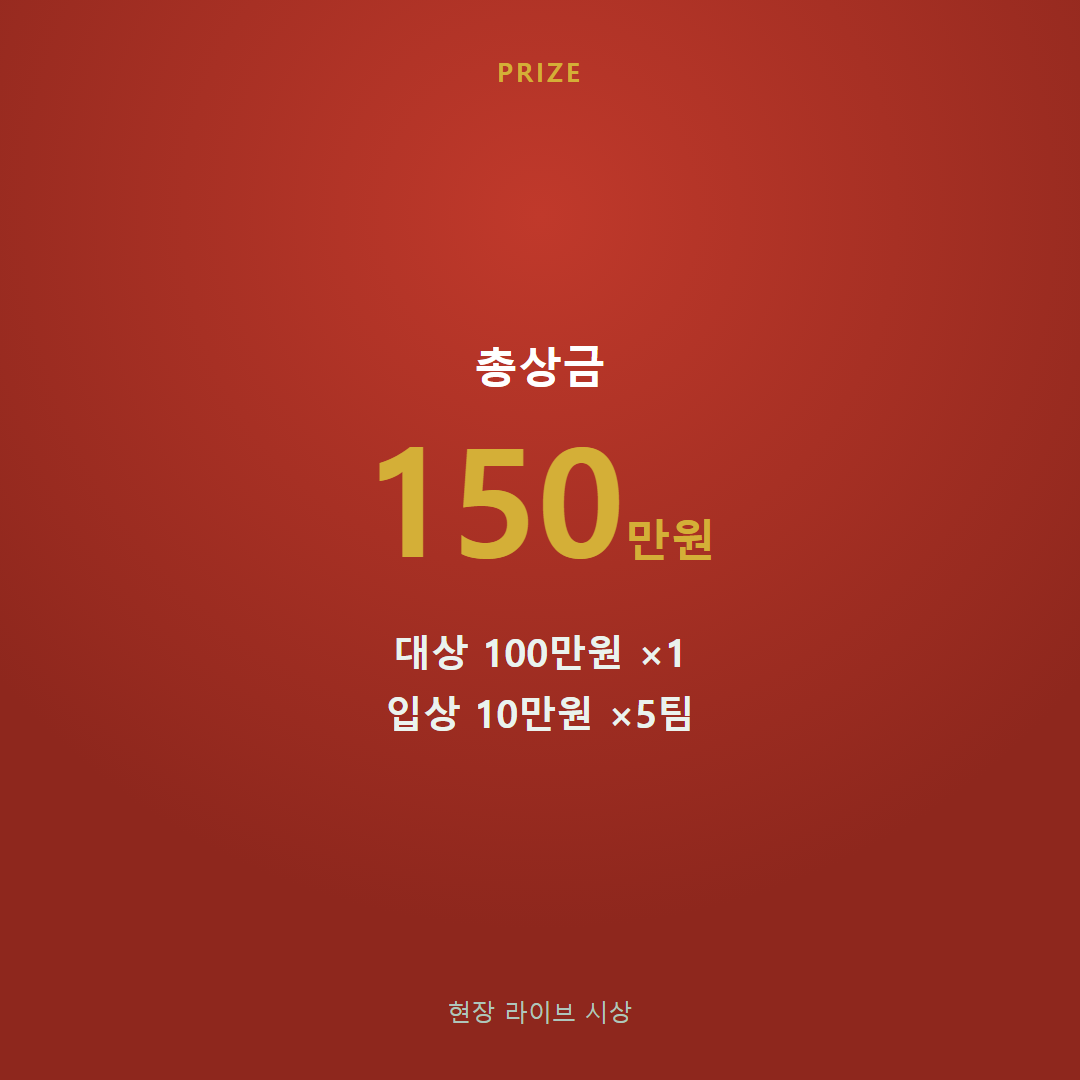
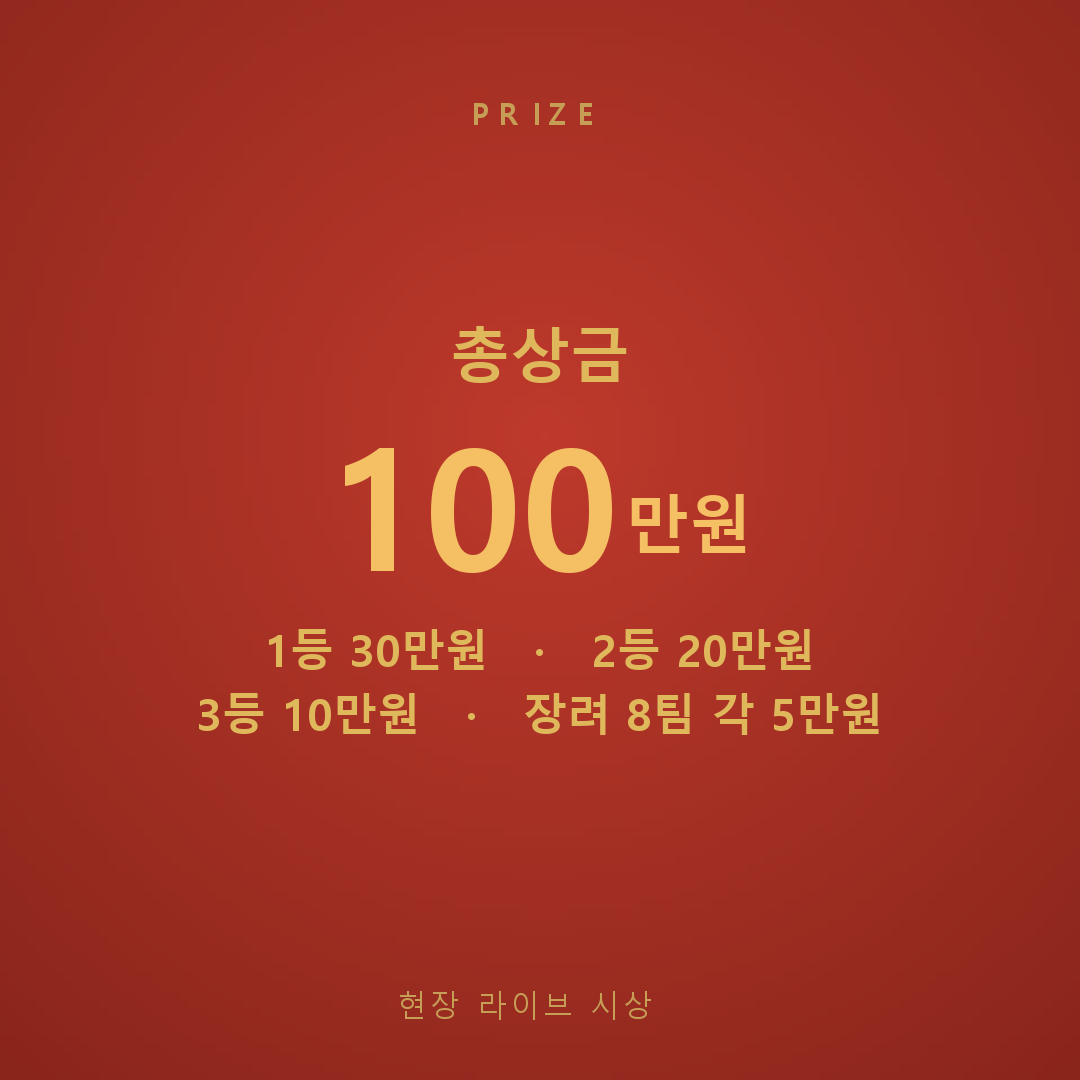
안내 페이지 편집모드 추가 + 상금·일정 갱신
- guide/, photo-guide/ 에 암호 보호 문구 편집모드(✏) 이식 (메인과 동일 UX)
- 캐롤 상금 총 100만원(1/2/3등·장려 8팀), 일정(신청 11.28~12.8·투표~12.25·시상 12.27) 갱신
- 사진 시상(1·2·3등 + 장려 치킨·피자 상품권), 일정(신청~12.25·시상 12.27) 갱신
- 저작물 활용 동의 주의문구 삽입 (양 페이지)
- 상금 카드(card_3.png) 새 금액으로 재생성

diff --git a/guide/index.html b/guide/index.html
@@ -74,12 +74,14 @@
   <a class="back" href="../#contest">← 대회 홈</a>
 </div></div>
 
+<div id="editable-root">
+
 <header class="ghero">
   <div class="tree">🎄</div>
   <h1>용인 캐롤 페스티벌</h1>
   <div class="dash">크리스마스 캐롤 · 성탄 CCM 창작대회 참가 안내서</div>
   <div class="slogan">“올해의 성탄, 당신의 노래로 물들이다”</div>
-  <div class="prize"><b>총상금 150만원</b><small>대상 100만원 · 입상 10만원 (5팀)</small></div>
+  <div class="prize"><b>총상금 100만원</b><small>1등 30 · 2등 20 · 3등 10만원 · 장려 8팀 각 5만원</small></div>
   <div class="host">주최 용인특례시기독교총연합회 · 주관 아가페문화원<br>2026 「이웃과 함께하는 성탄축제」 연계 사업</div>
 </header>
 
@@ -125,9 +127,11 @@
     <h2><span class="no">5</span>상금 및 시상</h2>
     <table>
       <tr><th>상</th><th>인원</th><th>상금</th></tr>
-      <tr><td style="text-align:center">대상</td><td style="text-align:center">1팀</td><td style="text-align:center">100만원</td></tr>
-      <tr><td style="text-align:center">입상</td><td style="text-align:center">5팀</td><td style="text-align:center">각 10만원</td></tr>
-      <tr><td style="text-align:center;font-weight:700">합계</td><td style="text-align:center;font-weight:700">6팀</td><td style="text-align:center;font-weight:700">150만원</td></tr>
+      <tr><td style="text-align:center">1등</td><td style="text-align:center">1팀</td><td style="text-align:center">30만원</td></tr>
+      <tr><td style="text-align:center">2등</td><td style="text-align:center">1팀</td><td style="text-align:center">20만원</td></tr>
+      <tr><td style="text-align:center">3등</td><td style="text-align:center">1팀</td><td style="text-align:center">10만원</td></tr>
+      <tr><td style="text-align:center">장려</td><td style="text-align:center">8팀</td><td style="text-align:center">각 5만원</td></tr>
+      <tr><td style="text-align:center;font-weight:700">합계</td><td style="text-align:center;font-weight:700">11팀</td><td style="text-align:center;font-weight:700">100만원</td></tr>
     </table>
     <p>이 외에도 <b>인기상(시민 투표)</b>, <b>거리송출 선정작</b>, 음원 유통 지원, 공연 무대 기회, 공식 크레딧 표기 등 다양한 혜택이 제공됩니다. 시상은 12월 성탄축제 현장에서 라이브로 진행됩니다.</p>
   </div>
@@ -145,9 +149,9 @@
   <div class="card">
     <h2><span class="no">7</span>일정</h2>
     <table>
-      <tr><td class="lbl">접수</td><td>2026. 11. 8(일) ~ 11. 22(일) · 온라인</td></tr>
-      <tr><td class="lbl">중간 공개·투표</td><td>11월 말 ~ 12월 중 (성탄축제 기간)</td></tr>
-      <tr><td class="lbl">발표·시상</td><td>12월 성탄축제 현장 라이브 시상</td></tr>
+      <tr><td class="lbl">신청 기간</td><td>2026. 11. 28(토) ~ 12. 8(화) 18시까지 · 온라인(네이버 카페)</td></tr>
+      <tr><td class="lbl">투표 기간</td><td>2026. 12. 11(금) ~ 12. 25(금) 21시까지 · 시민 온라인 투표</td></tr>
+      <tr><td class="lbl">시상</td><td>2026. 12. 27(일) 오후 3시 30분 · 용인중앙시장 공연장</td></tr>
     </table>
     <p class="small">※ 일정은 주최 측 사정에 따라 조정될 수 있으며, 변경 시 공지합니다.</p>
   </div>
@@ -156,6 +160,7 @@
     <h2><span class="no">8</span>저작권 안내 <span style="font-size:13px;color:var(--red)">(중요)</span></h2>
     <p>출품곡의 <b>저작권은 창작자 본인에게 그대로 남습니다.</b> 주최 측은 곡을 ‘소유’하지 않으며, 성탄축제 기간 및 관련 행사에서 <b>사용할 수 있는 허락(비독점 사용 라이선스)</b>만 받습니다. 곡이 사용될 때는 <b>창작자의 이름(크레딧)이 반드시 표기</b>됩니다. 참가자는 자신의 곡을 다른 교회·앨범·플랫폼에 자유롭게 사용할 수 있습니다.</p>
     <div class="box">참가 신청 시 ‘저작물 사용허락 동의서’를 함께 제출하게 됩니다. 미성년자는 법정대리인(보호자) 동의가 필요합니다.</div>
+    <div class="warn">📌 출품곡은 용인기독교총연합회가 성탄축제와 시민들을 위해 활용하겠습니다. <b>출품하시는 순간 이에 허락하신 것으로 인정합니다.</b></div>
   </div>
 
   <div class="card faq">
@@ -181,6 +186,140 @@
   주최 용인특례시기독교총연합회 · 주관 아가페문화원 · 용기총 대회 사무국<br>
   문의 — 아가페문화원 / 용기총 대회 사무국
 </footer>
+
+</div><!-- /editable-root -->
+
+<!-- ===================== 문구 편집 모드 (암호 보호) ===================== -->
+<style>
+ #ed-fab{position:fixed;right:18px;bottom:18px;z-index:9000;background:#0b3d2e;color:#fff;border:2px solid #d4af37;
+   border-radius:999px;padding:11px 18px;font:700 14px/1 'Malgun Gothic',sans-serif;cursor:pointer;box-shadow:0 8px 24px rgba(0,0,0,.25)}
+ #ed-fab:hover{background:#145a43}
+ #ed-mask{position:fixed;inset:0;background:rgba(0,0,0,.45);z-index:9100;display:none;align-items:center;justify-content:center}
+ #ed-modal{background:#fff;border-radius:16px;padding:26px 24px;width:320px;text-align:center;font-family:'Malgun Gothic',sans-serif;box-shadow:0 20px 60px rgba(0,0,0,.3)}
+ #ed-modal h4{color:#0b3d2e;font-size:18px;margin:0 0 6px}
+ #ed-modal p{color:#6b7280;font-size:13px;margin:0 0 14px}
+ #ed-pw{width:100%;padding:12px;border:1px solid #ccc;border-radius:10px;font-size:16px;text-align:center;letter-spacing:3px}
+ #ed-modal .row{display:flex;gap:8px;margin-top:14px}
+ #ed-modal button{flex:1;padding:11px;border:0;border-radius:10px;font-weight:700;font-size:14px;cursor:pointer}
+ #ed-ok{background:#0b3d2e;color:#fff}#ed-cancel{background:#eee;color:#333}
+ #ed-err{color:#c0392b;font-size:12.5px;height:16px;margin-top:8px}
+ #ed-bar{position:fixed;left:0;right:0;bottom:0;z-index:9000;background:#0b3d2e;color:#fff;display:none;
+   align-items:center;gap:10px;padding:10px 16px;font-family:'Malgun Gothic',sans-serif;box-shadow:0 -6px 20px rgba(0,0,0,.2);flex-wrap:wrap}
+ #ed-bar .hint{font-size:13px;color:#cfe0d8;flex:1;min-width:180px}
+ #ed-bar button{background:#ffffff1a;color:#fff;border:1px solid #ffffff44;border-radius:9px;padding:9px 14px;font-weight:700;font-size:13.5px;cursor:pointer}
+ #ed-bar button.prim{background:#d4af37;color:#3a2a00;border-color:#d4af37}
+ #ed-bar button:hover{filter:brightness(1.08)}
+ [contenteditable="true"].ed-on{outline:2px dashed #d4af37;outline-offset:3px;background:rgba(212,175,55,.08);border-radius:4px;cursor:text}
+ #ed-toast{position:fixed;left:50%;bottom:70px;transform:translateX(-50%);z-index:9200;background:#222;color:#fff;
+   padding:10px 18px;border-radius:999px;font:600 13.5px 'Malgun Gothic',sans-serif;opacity:0;transition:.25s;pointer-events:none}
+ #ed-toast.show{opacity:1}
+</style>
+
+<button id="ed-fab" title="문구 편집">✏ 편집</button>
+<div id="ed-mask"><div id="ed-modal">
+  <h4>🔒 문구 편집</h4>
+  <p>편집하려면 암호를 입력하세요</p>
+  <input id="ed-pw" type="password" inputmode="numeric" maxlength="16" placeholder="••••••">
+  <div id="ed-err"></div>
+  <div class="row"><button id="ed-cancel">취소</button><button id="ed-ok">확인</button></div>
+</div></div>
+<div id="ed-bar">
+  <span class="hint">✏ 편집 모드 — 글자를 눌러 고치고 <b>💾 저장</b> → <b>⤓ 내보내기</b>로 최종본(index.html)을 받아 배포하세요.</span>
+  <button id="ed-save" class="prim">💾 저장</button>
+  <button id="ed-export">⤓ 수정본 내보내기(HTML)</button>
+  <button id="ed-reset">↩ 되돌리기</button>
+  <button id="ed-exit">✕ 종료</button>
+</div>
+<div id="ed-toast"></div>
+
+<script>
+(function(){
+  var PW = "39271189";
+  var KEY = "ycf_guide_edits_v1";
+  var MKEY = "ycf_guide_updated_v1";
+  var SEL = ['h1','h2','h3','p','li','td','th','.dash','.slogan','.host','.box','.warn','.small',
+    '.cta h3','a.btn','.gold','.prize b','.prize small']
+    .map(function(s){return '#editable-root '+s;}).join(',');
+  var editing=false;
+  var root=document.getElementById('editable-root');
+  if(!root) return;
+  var els=Array.prototype.slice.call(root.querySelectorAll(SEL))
+            .filter(function(el){ return !el.hasAttribute('data-noedit') && !el.closest('[data-noedit]'); });
+  els.forEach(function(el,i){ el.setAttribute('data-ek','e'+i); });
+
+  function fmtNow(){ var d=new Date(); function p(n){return (n<10?'0':'')+n;}
+    return d.getFullYear()+'. '+p(d.getMonth()+1)+'. '+p(d.getDate())+' '+p(d.getHours())+':'+p(d.getMinutes()); }
+  (function showUpdated(){ var v=localStorage.getItem(MKEY); var el=document.getElementById('ed-updated'); if(v&&el) el.textContent=v; })();
+
+  function toast(msg){ var t=document.getElementById('ed-toast'); t.textContent=msg; t.classList.add('show');
+    clearTimeout(t._t); t._t=setTimeout(function(){t.classList.remove('show');},1800); }
+
+  function applySaved(){
+    try{ var saved=JSON.parse(localStorage.getItem(KEY)||'{}');
+      els.forEach(function(el){ var k=el.getAttribute('data-ek'); if(saved[k]!=null) el.innerHTML=saved[k]; });
+    }catch(e){}
+  }
+  applySaved();
+
+  function enter(){
+    editing=true; els.forEach(function(el){ el.setAttribute('contenteditable','true'); el.classList.add('ed-on'); });
+    document.getElementById('ed-bar').style.display='flex';
+    document.getElementById('ed-fab').style.display='none';
+  }
+  function exit(){
+    editing=false; els.forEach(function(el){ el.removeAttribute('contenteditable'); el.classList.remove('ed-on'); });
+    document.getElementById('ed-bar').style.display='none';
+    document.getElementById('ed-fab').style.display='block';
+  }
+  function save(){
+    var data={}; els.forEach(function(el){ data[el.getAttribute('data-ek')]=el.innerHTML; });
+    localStorage.setItem(KEY, JSON.stringify(data));
+    var now=fmtNow(); localStorage.setItem(MKEY, now);
+    var u=document.getElementById('ed-updated'); if(u) u.textContent=now;
+    toast('저장됨 · '+now);
+  }
+  function resetEdits(){
+    if(confirm('이 브라우저에 저장한 문구 수정을 모두 지우고 원래대로 되돌릴까요?')){
+      localStorage.removeItem(KEY); location.reload();
+    }
+  }
+  function exportHtml(){
+    save();
+    var clone=document.documentElement.cloneNode(true);
+    ['ed-fab','ed-mask','ed-bar','ed-toast'].forEach(function(id){ var n=clone.querySelector('#'+id); if(n) n.remove(); });
+    clone.querySelectorAll('[contenteditable]').forEach(function(n){ n.removeAttribute('contenteditable'); n.classList.remove('ed-on'); });
+    var html='<!DOCTYPE html>\n'+clone.outerHTML;
+    var b=new Blob([html],{type:'text/html;charset=utf-8'});
+    var u=URL.createObjectURL(b); var a=document.createElement('a');
+    a.href=u; a.download='index.html'; document.body.appendChild(a); a.click();
+    a.remove(); URL.revokeObjectURL(u);
+    toast('수정본 index.html 내려받음 — 재배포하면 모두에게 반영됩니다');
+  }
+
+  root.addEventListener('click', function(e){
+    if(!editing) return;
+    var a=e.target.closest('a,button'); if(a){ e.preventDefault(); }
+  }, true);
+
+  var mask=document.getElementById('ed-mask'), pw=document.getElementById('ed-pw'), err=document.getElementById('ed-err');
+  function openModal(){ err.textContent=''; pw.value=''; mask.style.display='flex'; setTimeout(function(){pw.focus();},50); }
+  function closeModal(){ mask.style.display='none'; }
+  function tryPw(){
+    if(pw.value===PW){ closeModal(); sessionStorage.setItem('ycf_ed_ok','1'); enter(); }
+    else{ err.textContent='암호가 올바르지 않습니다.'; pw.value=''; pw.focus(); }
+  }
+  document.getElementById('ed-fab').addEventListener('click', function(){
+    if(sessionStorage.getItem('ycf_ed_ok')==='1'){ enter(); } else { openModal(); }
+  });
+  document.getElementById('ed-ok').addEventListener('click', tryPw);
+  document.getElementById('ed-cancel').addEventListener('click', closeModal);
+  pw.addEventListener('keydown', function(e){ if(e.key==='Enter') tryPw(); });
+  document.getElementById('ed-save').addEventListener('click', save);
+  document.getElementById('ed-export').addEventListener('click', exportHtml);
+  document.getElementById('ed-reset').addEventListener('click', resetEdits);
+  document.getElementById('ed-exit').addEventListener('click', exit);
+})();
+</script>
 
 </body>
 </html>

diff --git a/photo-guide/index.html b/photo-guide/index.html
@@ -74,12 +74,14 @@
   <a class="back" href="../#photo">← 콘테스트 홈</a>
 </div></div>
 
+<div id="editable-root">
+
 <header class="ghero">
   <div class="tree">📷</div>
   <h1>성탄 사진 콘테스트</h1>
   <div class="dash">용인 성탄축제 사진 공모전 참가 안내서</div>
   <div class="slogan">“당신의 렌즈로 담은 우리 동네 성탄”</div>
-  <div class="prize"><b>상품권 총 70만원 상당</b><small>대상 20만원권 (1명) · 입상 5만원권 (10명)</small></div>
+  <div class="prize"><b>1·2·3등 시상 총 30만원</b><small>1등 15 · 2등 10 · 3등 5만원 · 장려 10명 치킨·피자 상품권</small></div>
   <div class="host">주최 용인특례시기독교총연합회 · 주관 아가페문화원<br>2026 「이웃과 함께하는 성탄축제」 연계 사업</div>
 </header>
 
@@ -124,9 +126,10 @@
     <h2><span class="no">5</span>시상</h2>
     <table>
       <tr><th>상</th><th>인원</th><th>시상</th></tr>
-      <tr><td style="text-align:center">대상</td><td style="text-align:center">1명</td><td style="text-align:center">20만원 상당 상품권</td></tr>
-      <tr><td style="text-align:center">입상</td><td style="text-align:center">10명</td><td style="text-align:center">각 5만원 상품권</td></tr>
-      <tr><td style="text-align:center;font-weight:700">합계</td><td style="text-align:center;font-weight:700">11명</td><td style="text-align:center;font-weight:700">상품권 70만원 상당</td></tr>
+      <tr><td style="text-align:center">1등</td><td style="text-align:center">1명</td><td style="text-align:center">15만원</td></tr>
+      <tr><td style="text-align:center">2등</td><td style="text-align:center">1명</td><td style="text-align:center">10만원</td></tr>
+      <tr><td style="text-align:center">3등</td><td style="text-align:center">1명</td><td style="text-align:center">5만원</td></tr>
+      <tr><td style="text-align:center">장려</td><td style="text-align:center">10명</td><td style="text-align:center">치킨 또는 피자 상품권</td></tr>
     </table>
     <p>이 외에도 <b>인기상(시민 투표)</b>이 반영되며, 입상작은 성탄축제 전시·홍보물에 활용됩니다(촬영자 크레딧 표기). 시상은 12월 성탄축제 기간 중 진행됩니다.</p>
   </div>
@@ -145,9 +148,8 @@
     <h2><span class="no">7</span>일정</h2>
     <table>
       <tr><td class="lbl">촬영 기간</td><td>2026. 11. 28(토) ~ 12. 27(일) · 성탄축제 기간</td></tr>
-      <tr><td class="lbl">접수</td><td>성탄축제 기간 중 · 온라인(네이버 카페)</td></tr>
-      <tr><td class="lbl">중간 공개·투표</td><td>12월 중 (성탄축제 기간)</td></tr>
-      <tr><td class="lbl">발표·시상</td><td>12월 성탄축제 현장 (상세 추후 공지)</td></tr>
+      <tr><td class="lbl">신청 기간</td><td>2026. 11. 28(토) ~ 12. 25(금) 21시까지 · 온라인(네이버 카페)</td></tr>
+      <tr><td class="lbl">시상</td><td>2026. 12. 27(일) 오후 3시 30분 · 용인중앙시장 공연장</td></tr>
     </table>
     <p class="small">※ 일정은 주최 측 사정에 따라 조정될 수 있으며, 변경 시 공지합니다.</p>
   </div>
@@ -157,6 +159,7 @@
     <p>출품작의 <b>저작권은 촬영자 본인에게 그대로 남습니다.</b> 주최 측은 사진을 ‘소유’하지 않으며, 성탄축제 홍보·전시 등 관련 행사에서 <b>사용할 수 있는 허락(비독점 사용 라이선스)</b>만 받습니다. 사진이 사용될 때는 <b>촬영자의 이름(크레딧)이 표기</b>됩니다.</p>
     <div class="warn">※ <b>초상권 주의</b> — 인물이 식별되는 사진은 해당 인물의 동의를 받아 제출해 주세요. 미성년자가 주요 피사체인 경우 보호자 동의가 필요합니다.</div>
     <div class="box">출품은 위 저작권·초상권 안내에 동의한 것으로 간주합니다. 안전사고 예방을 위해 통제구역·위험한 장소에서의 촬영은 삼가 주세요.</div>
+    <div class="warn">📌 출품 사진은 용인기독교총연합회가 성탄축제와 시민들을 위해 활용하겠습니다. <b>출품하시는 순간 이에 허락하신 것으로 인정합니다.</b></div>
   </div>
 
   <div class="card faq">
@@ -182,6 +185,140 @@
   주최 용인특례시기독교총연합회 · 주관 아가페문화원 · 용기총 사무국<br>
   문의 — 아가페문화원 / 용기총 사무국
 </footer>
+
+</div><!-- /editable-root -->
+
+<!-- ===================== 문구 편집 모드 (암호 보호) ===================== -->
+<style>
+ #ed-fab{position:fixed;right:18px;bottom:18px;z-index:9000;background:#0b3d2e;color:#fff;border:2px solid #d4af37;
+   border-radius:999px;padding:11px 18px;font:700 14px/1 'Malgun Gothic',sans-serif;cursor:pointer;box-shadow:0 8px 24px rgba(0,0,0,.25)}
+ #ed-fab:hover{background:#145a43}
+ #ed-mask{position:fixed;inset:0;background:rgba(0,0,0,.45);z-index:9100;display:none;align-items:center;justify-content:center}
+ #ed-modal{background:#fff;border-radius:16px;padding:26px 24px;width:320px;text-align:center;font-family:'Malgun Gothic',sans-serif;box-shadow:0 20px 60px rgba(0,0,0,.3)}
+ #ed-modal h4{color:#0b3d2e;font-size:18px;margin:0 0 6px}
+ #ed-modal p{color:#6b7280;font-size:13px;margin:0 0 14px}
+ #ed-pw{width:100%;padding:12px;border:1px solid #ccc;border-radius:10px;font-size:16px;text-align:center;letter-spacing:3px}
+ #ed-modal .row{display:flex;gap:8px;margin-top:14px}
+ #ed-modal button{flex:1;padding:11px;border:0;border-radius:10px;font-weight:700;font-size:14px;cursor:pointer}
+ #ed-ok{background:#0b3d2e;color:#fff}#ed-cancel{background:#eee;color:#333}
+ #ed-err{color:#c0392b;font-size:12.5px;height:16px;margin-top:8px}
+ #ed-bar{position:fixed;left:0;right:0;bottom:0;z-index:9000;background:#0b3d2e;color:#fff;display:none;
+   align-items:center;gap:10px;padding:10px 16px;font-family:'Malgun Gothic',sans-serif;box-shadow:0 -6px 20px rgba(0,0,0,.2);flex-wrap:wrap}
+ #ed-bar .hint{font-size:13px;color:#cfe0d8;flex:1;min-width:180px}
+ #ed-bar button{background:#ffffff1a;color:#fff;border:1px solid #ffffff44;border-radius:9px;padding:9px 14px;font-weight:700;font-size:13.5px;cursor:pointer}
+ #ed-bar button.prim{background:#d4af37;color:#3a2a00;border-color:#d4af37}
+ #ed-bar button:hover{filter:brightness(1.08)}
+ [contenteditable="true"].ed-on{outline:2px dashed #d4af37;outline-offset:3px;background:rgba(212,175,55,.08);border-radius:4px;cursor:text}
+ #ed-toast{position:fixed;left:50%;bottom:70px;transform:translateX(-50%);z-index:9200;background:#222;color:#fff;
+   padding:10px 18px;border-radius:999px;font:600 13.5px 'Malgun Gothic',sans-serif;opacity:0;transition:.25s;pointer-events:none}
+ #ed-toast.show{opacity:1}
+</style>
+
+<button id="ed-fab" title="문구 편집">✏ 편집</button>
+<div id="ed-mask"><div id="ed-modal">
+  <h4>🔒 문구 편집</h4>
+  <p>편집하려면 암호를 입력하세요</p>
+  <input id="ed-pw" type="password" inputmode="numeric" maxlength="16" placeholder="••••••">
+  <div id="ed-err"></div>
+  <div class="row"><button id="ed-cancel">취소</button><button id="ed-ok">확인</button></div>
+</div></div>
+<div id="ed-bar">
+  <span class="hint">✏ 편집 모드 — 글자를 눌러 고치고 <b>💾 저장</b> → <b>⤓ 내보내기</b>로 최종본(index.html)을 받아 배포하세요.</span>
+  <button id="ed-save" class="prim">💾 저장</button>
+  <button id="ed-export">⤓ 수정본 내보내기(HTML)</button>
+  <button id="ed-reset">↩ 되돌리기</button>
+  <button id="ed-exit">✕ 종료</button>
+</div>
+<div id="ed-toast"></div>
+
+<script>
+(function(){
+  var PW = "39271189";
+  var KEY = "ycf_photo_edits_v1";
+  var MKEY = "ycf_photo_updated_v1";
+  var SEL = ['h1','h2','h3','p','li','td','th','.dash','.slogan','.host','.box','.warn','.small',
+    '.cta h3','a.btn','.gold','.prize b','.prize small']
+    .map(function(s){return '#editable-root '+s;}).join(',');
+  var editing=false;
+  var root=document.getElementById('editable-root');
+  if(!root) return;
+  var els=Array.prototype.slice.call(root.querySelectorAll(SEL))
+            .filter(function(el){ return !el.hasAttribute('data-noedit') && !el.closest('[data-noedit]'); });
+  els.forEach(function(el,i){ el.setAttribute('data-ek','e'+i); });
+
+  function fmtNow(){ var d=new Date(); function p(n){return (n<10?'0':'')+n;}
+    return d.getFullYear()+'. '+p(d.getMonth()+1)+'. '+p(d.getDate())+' '+p(d.getHours())+':'+p(d.getMinutes()); }
+  (function showUpdated(){ var v=localStorage.getItem(MKEY); var el=document.getElementById('ed-updated'); if(v&&el) el.textContent=v; })();
+
+  function toast(msg){ var t=document.getElementById('ed-toast'); t.textContent=msg; t.classList.add('show');
+    clearTimeout(t._t); t._t=setTimeout(function(){t.classList.remove('show');},1800); }
+
+  function applySaved(){
+    try{ var saved=JSON.parse(localStorage.getItem(KEY)||'{}');
+      els.forEach(function(el){ var k=el.getAttribute('data-ek'); if(saved[k]!=null) el.innerHTML=saved[k]; });
+    }catch(e){}
+  }
+  applySaved();
+
+  function enter(){
+    editing=true; els.forEach(function(el){ el.setAttribute('contenteditable','true'); el.classList.add('ed-on'); });
+    document.getElementById('ed-bar').style.display='flex';
+    document.getElementById('ed-fab').style.display='none';
+  }
+  function exit(){
+    editing=false; els.forEach(function(el){ el.removeAttribute('contenteditable'); el.classList.remove('ed-on'); });
+    document.getElementById('ed-bar').style.display='none';
+    document.getElementById('ed-fab').style.display='block';
+  }
+  function save(){
+    var data={}; els.forEach(function(el){ data[el.getAttribute('data-ek')]=el.innerHTML; });
+    localStorage.setItem(KEY, JSON.stringify(data));
+    var now=fmtNow(); localStorage.setItem(MKEY, now);
+    var u=document.getElementById('ed-updated'); if(u) u.textContent=now;
+    toast('저장됨 · '+now);
+  }
+  function resetEdits(){
+    if(confirm('이 브라우저에 저장한 문구 수정을 모두 지우고 원래대로 되돌릴까요?')){
+      localStorage.removeItem(KEY); location.reload();
+    }
+  }
+  function exportHtml(){
+    save();
+    var clone=document.documentElement.cloneNode(true);
+    ['ed-fab','ed-mask','ed-bar','ed-toast'].forEach(function(id){ var n=clone.querySelector('#'+id); if(n) n.remove(); });
+    clone.querySelectorAll('[contenteditable]').forEach(function(n){ n.removeAttribute('contenteditable'); n.classList.remove('ed-on'); });
+    var html='<!DOCTYPE html>\n'+clone.outerHTML;
+    var b=new Blob([html],{type:'text/html;charset=utf-8'});
+    var u=URL.createObjectURL(b); var a=document.createElement('a');
+    a.href=u; a.download='index.html'; document.body.appendChild(a); a.click();
+    a.remove(); URL.revokeObjectURL(u);
+    toast('수정본 index.html 내려받음 — 재배포하면 모두에게 반영됩니다');
+  }
+
+  root.addEventListener('click', function(e){
+    if(!editing) return;
+    var a=e.target.closest('a,button'); if(a){ e.preventDefault(); }
+  }, true);
+
+  var mask=document.getElementById('ed-mask'), pw=document.getElementById('ed-pw'), err=document.getElementById('ed-err');
+  function openModal(){ err.textContent=''; pw.value=''; mask.style.display='flex'; setTimeout(function(){pw.focus();},50); }
+  function closeModal(){ mask.style.display='none'; }
+  function tryPw(){
+    if(pw.value===PW){ closeModal(); sessionStorage.setItem('ycf_ed_ok','1'); enter(); }
+    else{ err.textContent='암호가 올바르지 않습니다.'; pw.value=''; pw.focus(); }
+  }
+  document.getElementById('ed-fab').addEventListener('click', function(){
+    if(sessionStorage.getItem('ycf_ed_ok')==='1'){ enter(); } else { openModal(); }
+  });
+  document.getElementById('ed-ok').addEventListener('click', tryPw);
+  document.getElementById('ed-cancel').addEventListener('click', closeModal);
+  pw.addEventListener('keydown', function(e){ if(e.key==='Enter') tryPw(); });
+  document.getElementById('ed-save').addEventListener('click', save);
+  document.getElementById('ed-export').addEventListener('click', exportHtml);
+  document.getElementById('ed-reset').addEventListener('click', resetEdits);
+  document.getElementById('ed-exit').addEventListener('click', exit);
+})();
+</script>
 
 </body>
 </html>
